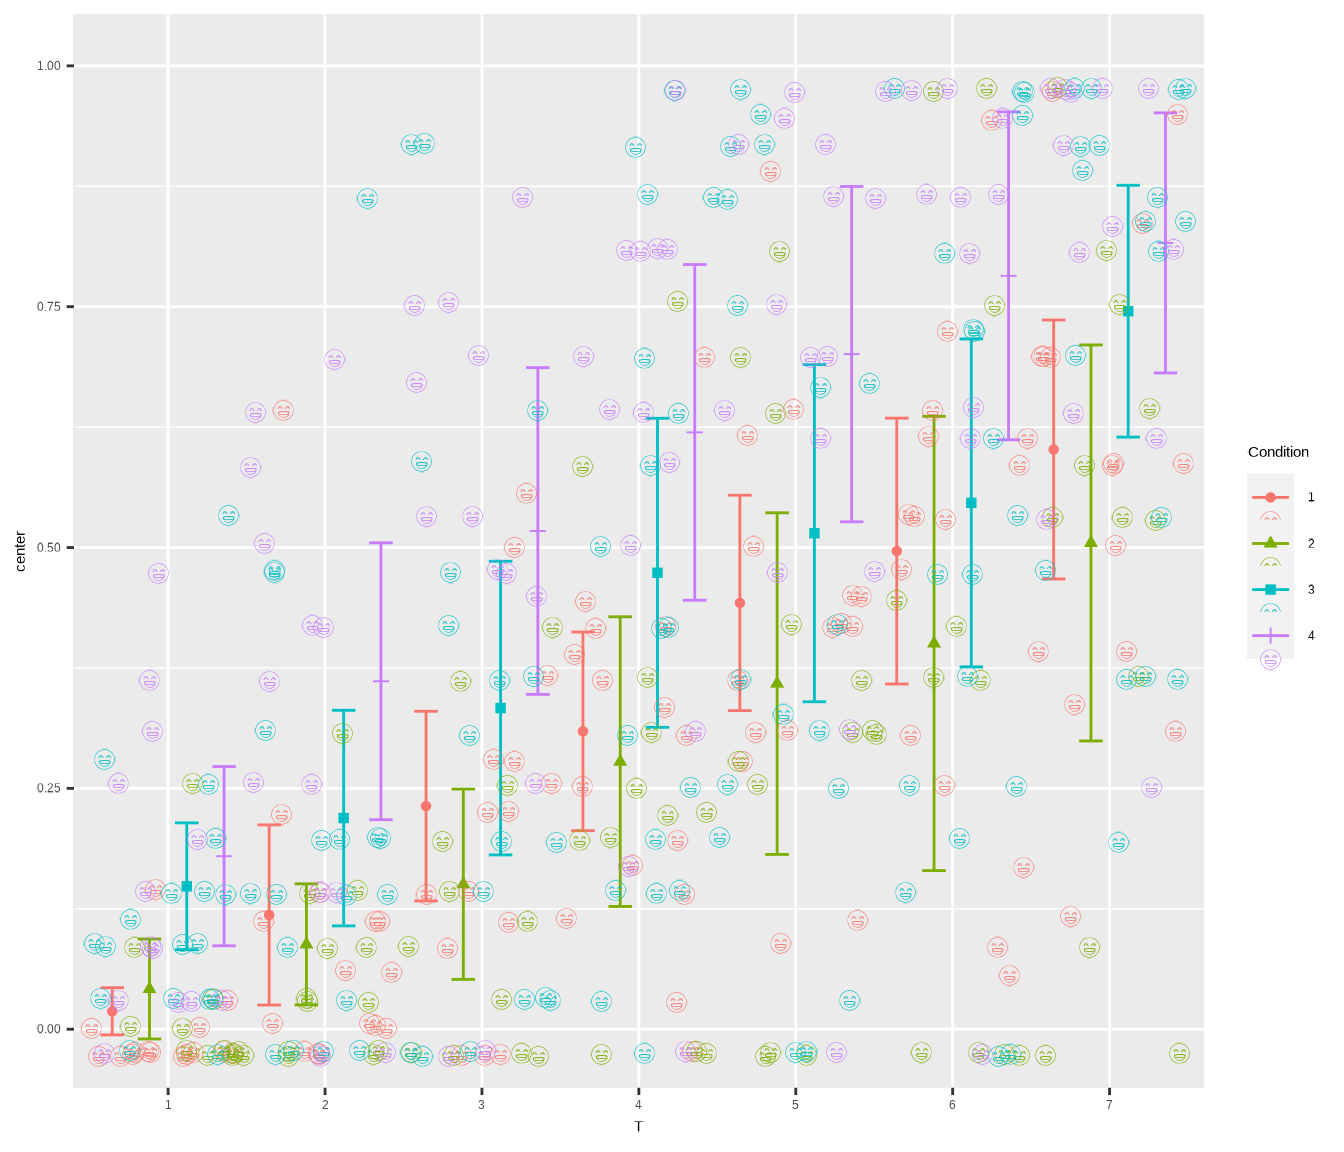
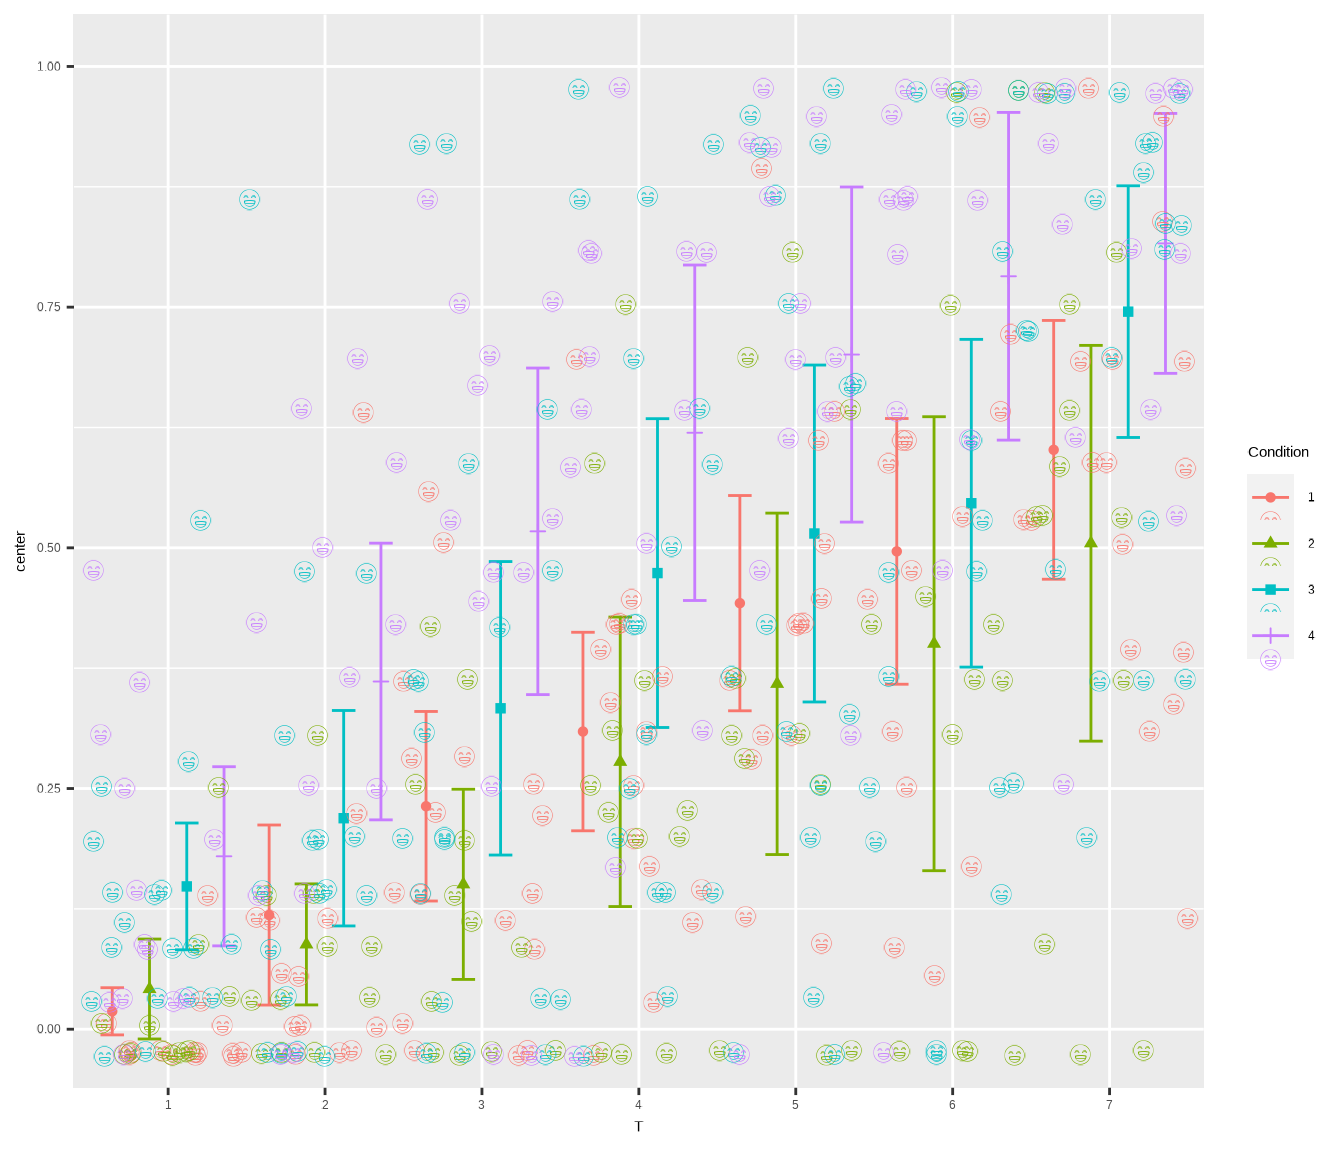
=version 0.9.4.4c (stable)

diff --git a/docs/index.html b/docs/index.html
@@ -153,7 +153,7 @@
     errorbar <span class="op">=</span> <span class="st">"CI"</span>, gamma <span class="op">=</span> <span class="fl">0.999</span>,
     plotStyle <span class="op">=</span> <span class="st">"line"</span><span class="op">)</span></code></pre></div>
 <p><img src="README_files/figure-gfm/unnamed-chunk-7-1.png"><!-- --></p>
-<p>The second function, <code>GRD</code>, can be used to generate random data from designs with various within- and between-subject factors. This example generates scores for 300 simulated participants in a 3 x 2 design with repeated-measures on <code>Day</code>s. Only the factor <code>Day</code> is simulated to improve the scores by reducing it:</p>
+<p>The second function, <code><a href="reference/GRD.html">GRD()</a></code>, can be used to generate random data from designs with various within- and between-subject factors. This example generates scores for 300 simulated participants in a 3 x 2 design with repeated-measures on <code>Day</code>s. Only the factor <code>Day</code> is simulated to improve the scores by reducing it:</p>
 <div class="sourceCode" id="cb6"><pre class="downlit sourceCode r">
 <code class="sourceCode R"><span class="va">testdata</span> <span class="op">&lt;-</span> <span class="fu"><a href="reference/GRD.html">GRD</a></span><span class="op">(</span>
     RenameDV   <span class="op">=</span> <span class="st">"score"</span>, 
@@ -165,12 +165,12 @@
 <span class="op">)</span>
 <span class="fu"><a href="https://rdrr.io/r/utils/head.html">head</a></span><span class="op">(</span><span class="va">testdata</span><span class="op">)</span></code></pre></div>
 <div class="sourceCode" id="cb7"><pre class="sourceCode R"><code class="sourceCode r"><span id="cb7-1"><a href="#cb7-1" aria-hidden="true" tabindex="-1"></a><span class="do">##   id Difficulty  score.1  score.2</span></span>
-<span id="cb7-2"><a href="#cb7-2" aria-hidden="true" tabindex="-1"></a><span class="do">## 1  1          1 79.24015 73.66921</span></span>
-<span id="cb7-3"><a href="#cb7-3" aria-hidden="true" tabindex="-1"></a><span class="do">## 2  2          1 90.22441 97.02647</span></span>
-<span id="cb7-4"><a href="#cb7-4" aria-hidden="true" tabindex="-1"></a><span class="do">## 3  3          1 83.09390 79.58453</span></span>
-<span id="cb7-5"><a href="#cb7-5" aria-hidden="true" tabindex="-1"></a><span class="do">## 4  4          1 81.97316 77.38912</span></span>
-<span id="cb7-6"><a href="#cb7-6" aria-hidden="true" tabindex="-1"></a><span class="do">## 5  5          1 75.11573 71.09902</span></span>
-<span id="cb7-7"><a href="#cb7-7" aria-hidden="true" tabindex="-1"></a><span class="do">## 6  6          1 92.71133 78.39087</span></span></code></pre></div>
+<span id="cb7-2"><a href="#cb7-2" aria-hidden="true" tabindex="-1"></a><span class="do">## 1  1          1 93.10302 82.03908</span></span>
+<span id="cb7-3"><a href="#cb7-3" aria-hidden="true" tabindex="-1"></a><span class="do">## 2  2          1 77.31606 87.70924</span></span>
+<span id="cb7-4"><a href="#cb7-4" aria-hidden="true" tabindex="-1"></a><span class="do">## 3  3          1 80.90919 78.34661</span></span>
+<span id="cb7-5"><a href="#cb7-5" aria-hidden="true" tabindex="-1"></a><span class="do">## 4  4          1 73.11900 69.86264</span></span>
+<span id="cb7-6"><a href="#cb7-6" aria-hidden="true" tabindex="-1"></a><span class="do">## 5  5          1 72.58291 51.31221</span></span>
+<span id="cb7-7"><a href="#cb7-7" aria-hidden="true" tabindex="-1"></a><span class="do">## 6  6          1 76.29325 64.46768</span></span></code></pre></div>
 <p>The simulated scores are illustrated using jitter dots as well as a violin plot to show the distributions:</p>
 <div class="sourceCode" id="cb8"><pre class="downlit sourceCode r">
 <code class="sourceCode R"><span class="fu"><a href="reference/superbPlot.html">superbPlot</a></span><span class="op">(</span><span class="va">testdata</span>, 

diff --git a/docs/articles/Vignette6.html b/docs/articles/Vignette6.html
@@ -126,13 +126,13 @@
 ##  ------------------------------------------------------------</code></pre>
 <div class="sourceCode" id="cb3"><pre class="downlit sourceCode r">
 <code class="sourceCode R"><span class="fu"><a href="https://rdrr.io/r/utils/head.html">head</a></span><span class="op">(</span><span class="va">dta</span><span class="op">)</span></code></pre></div>
-<pre><code>##   id         DV
-## 1  1 -0.4141414
-## 2  2  0.6020036
-## 3  3  2.2812716
-## 4  4  1.1771821
-## 5  5  1.2779768
-## 6  6  0.1041769</code></pre>
+<pre><code>##   id          DV
+## 1  1 -0.51317431
+## 2  2  0.66581768
+## 3  3 -2.40097050
+## 4  4  1.96923348
+## 5  5 -0.52757420
+## 6  6 -0.09302347</code></pre>
 <p>By default, one hundred scores are generated from a normal distribution with mean 0 and standard deviation of 1. In other words, it generate 100 z scores. The dependent variable, the last column in the dataframe that will be generated is called by default <code>DV</code>. The first column is an “id” column containing a number identifying each <em>simulated</em> participant. To change the dependent variable’s name, use</p>
 <div class="sourceCode" id="cb5"><pre class="downlit sourceCode r">
 <code class="sourceCode R"><span class="va">dta</span> <span class="op">&lt;-</span> <span class="fu"><a href="../reference/GRD.html">GRD</a></span><span class="op">(</span> RenameDV <span class="op">=</span> <span class="st">"score"</span> <span class="op">)</span></code></pre></div>
@@ -233,15 +233,15 @@
 ##  ------------------------------------------------------------</code></pre>
 <div class="sourceCode" id="cb21"><pre class="downlit sourceCode r">
 <code class="sourceCode R"><span class="va">dta</span></code></pre></div>
-<pre><code>##   id Therapy          DV
-## 1  1       1  0.01550018
-## 2  2       1 -1.65652501
-## 3  3       2  0.14467964
-## 4  4       2  1.58540558
-## 5  5       2  1.65655409
-## 6  6       2  0.50451351
-## 7  7       2 -1.95987337
-## 8  8       3 -0.36196097</code></pre>
+<pre><code>##   id Therapy         DV
+## 1  1       1 -1.3720194
+## 2  2       1  0.6329155
+## 3  3       2 -0.9434320
+## 4  4       2 -1.0044004
+## 5  5       2  0.1311351
+## 6  6       2 -0.2096765
+## 7  7       2 -1.1131552
+## 8  8       3  0.5327757</code></pre>
 </div>
 <div id="choosing-the-population-distribution" class="section level2">
 <h2 class="hasAnchor">

diff --git a/docs/articles/Vignette5.html b/docs/articles/Vignette5.html
@@ -143,12 +143,12 @@
 <span class="op">)</span>
 <span class="fu"><a href="https://rdrr.io/r/utils/head.html">head</a></span><span class="op">(</span><span class="va">testdata</span><span class="op">)</span></code></pre></div>
 <pre><code>##   id Difficulty score.day1 score.day2
-## 1  1          1   88.73986   71.28876
-## 2  2          1   48.00188   49.79141
-## 3  3          1   66.16378   64.22248
-## 4  4          1   67.06939   53.57657
-## 5  5          1   82.48659   72.69488
-## 6  6          1   87.44691   81.31521</code></pre>
+## 1  1          1   68.72542   57.25450
+## 2  2          1   62.60459   65.29955
+## 3  3          1   75.61041   45.52393
+## 4  4          1   72.68509   70.19957
+## 5  5          1   78.64754   73.91166
+## 6  6          1   47.87259   45.26501</code></pre>
 <p>For simplicity, we define a function whose arguments are the dataset and the layout:</p>
 <div class="sourceCode" id="cb5"><pre class="downlit sourceCode r">
 <code class="sourceCode R"><span class="va">mp</span> <span class="op">&lt;-</span> <span class="kw">function</span><span class="op">(</span><span class="va">data</span>, <span class="va">style</span>, <span class="va">...</span><span class="op">)</span> <span class="op">{</span>

diff --git a/docs/authors.html b/docs/authors.html
@@ -147,7 +147,7 @@
     <p>Cousineau, D., Goulet, M.A., & Harding. B (submitted)  Summary statistics plotted with correct error bars: The superb framework and library for {R} Advances in Methods and Practices in Psychological Science</p>
     <pre>@Article{,
   title = {Summary statistics plotted with correct error bars: The superb framework and library for {R}},
-  author = {Denis Cousineau and Marc-André Goulet and Bradley Harding},
+  author = {Denis Cousineau and Marc-Andre Goulet and Bradley Harding},
   journal = {Advances in Methods and Practices in Psychological Science},
   year = {Submitted},
   volume = {Submitted},
@@ -170,7 +170,7 @@
         </p>
       </li>
       <li>
-        <p><strong>Marc-André Goulet</strong>. Contributor. 
+        <p><strong>Marc-Andre Goulet</strong>. Contributor. 
         </p>
       </li>
       <li>

diff --git a/docs/reference/HyunhFeldtEpsilon.html b/docs/reference/HyunhFeldtEpsilon.html
@@ -190,7 +190,7 @@ columns on which to compute epsilon. Any other columns are ignored.</p></td>
 <em>Annals of Mathematical Statistics</em>, <b>29</b>(3), 885--891.<br /><br /> Huynh H, Feldt LS (1976).
 &#8220;Estimation of the Box correction for degrees of freedom from sample data in randomized block and split-plot designs.&#8221;
 <em>Journal of educational statistics</em>, <b>1</b>(1), 69--82.<br /><br /> Lecoutre B (1991).
-&#8220;A correction for the \(\varepsilon\)~ approximate test in repeated measures designs with two or more independent groups.&#8221;
+&#8220;A correction for the \(\varepsilon\) approximate test in repeated measures designs with two or more independent groups.&#8221;
 <em>Journal of Educational Statistics</em>, <b>16</b>(4), 371--372.</p>
 
   </div>

diff --git a/docs/reference/superb-package.html b/docs/reference/superb-package.html
@@ -249,7 +249,7 @@ doi: <a href='https://doi.org/10.20982/tqmp.04.2.p061'>10.20982/tqmp.04.2.p061</
     <p><strong>Maintainer</strong>: Denis Cousineau <a href='mailto:denis.cousineau@uottawa.ca'>denis.cousineau@uottawa.ca</a></p>
 <p>Other contributors:</p><ul>
 <li><p>Bradley Harding <a href='mailto:bradley.harding@umoncton.ca'>bradley.harding@umoncton.ca</a> [contributor]</p></li>
-<li><p>Marc-André Goulet <a href='mailto:magoulet101@gmail.com'>magoulet101@gmail.com</a> [contributor]</p></li>
+<li><p>Marc-Andre Goulet <a href='mailto:magoulet101@gmail.com'>magoulet101@gmail.com</a> [contributor]</p></li>
 <li><p>Jesika Walker <a href='mailto:jwalk050@uottawa.ca'>jwalk050@uottawa.ca</a> [artist]</p></li>
 </ul>
 

diff --git a/README.md b/README.md
@@ -87,7 +87,7 @@ superbPlot(ToothGrowth,
 
 ![](README_files/figure-gfm/unnamed-chunk-7-1.png)<!-- -->
 
-The second function, `GRD`, can be used to generate random data from
+The second function, `GRD()`, can be used to generate random data from
 designs with various within- and between-subject factors. This example
 generates scores for 300 simulated participants in a 3 x 2 design with
 repeated-measures on `Day`s. Only the factor `Day` is simulated to
@@ -106,12 +106,12 @@ head(testdata)
 ```
 
     ##   id Difficulty  score.1  score.2
-    ## 1  1          1 79.24015 73.66921
-    ## 2  2          1 90.22441 97.02647
-    ## 3  3          1 83.09390 79.58453
-    ## 4  4          1 81.97316 77.38912
-    ## 5  5          1 75.11573 71.09902
-    ## 6  6          1 92.71133 78.39087
+    ## 1  1          1 93.10302 82.03908
+    ## 2  2          1 77.31606 87.70924
+    ## 3  3          1 80.90919 78.34661
+    ## 4  4          1 73.11900 69.86264
+    ## 5  5          1 72.58291 51.31221
+    ## 6  6          1 76.29325 64.46768
 
 The simulated scores are illustrated using jitter dots as well as a
 violin plot to show the distributions:
